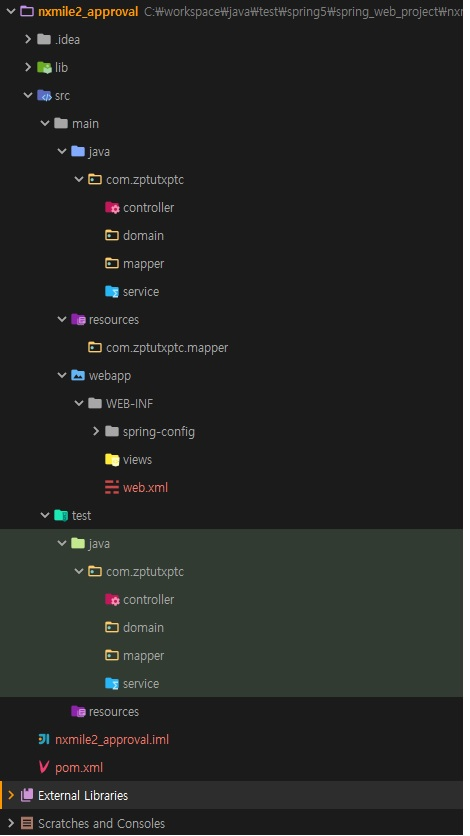
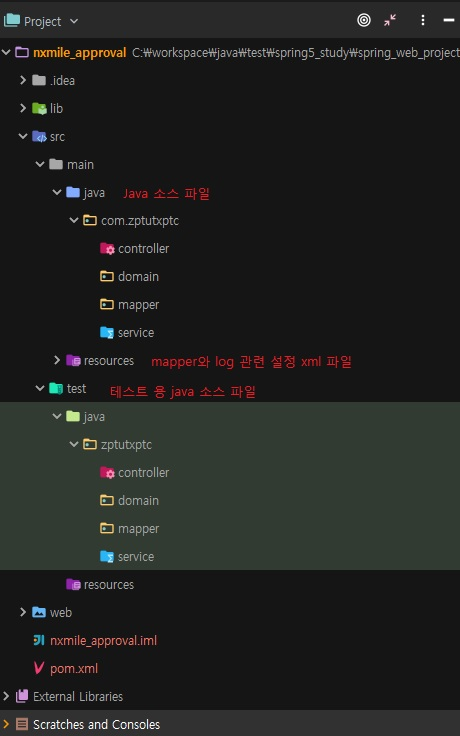
20181217_7

Changed region(s): [[0.0, 0.0, 1.0, 1.0]]

diff --git a/_posts/2018-12-16-[Spring]IntelliJ를 활용한 Spring MVC 프로젝트 시작하기.md b/_posts/2018-12-16-[Spring]IntelliJ를 활용한 Spring MVC 프로젝트 시작하기.md
@@ -45,19 +45,8 @@ _ _ _
 - src/main/java 밑에 필요한 패키지 들을 생성(controller, mapper, domain, service 등)
 - src/main/resource 밑에도 mapper 디렉토리를 생성(패키지 아님. 디렉토리의 경우 한개씩 순차적으로 생성해야함.(예)com->zptutxptc->mapper )
 - src/test 밑에도 src/main 과 동일한 패키지와 디렉토리를 생성해준다.
-- 디렉토리 간단 설명 : 
-	- src/main/java : java 소스 파일
-	- src/main/resource : mapper와 log 관련 설정 xml 파일
-	- src/main/webapp : web디렉토리. (처음에 만들면 src 밖에 web디렉토리가 생성되므로 디렉토리 변경 필요. 아래 4)설명 참고)
-		- WEB-INF : web information 디렉토리
-			- spring-config : spring 관련 설정 xml (applicationContext.xml, dispatcher-servlet.xml)
-		- views : jsp 파일
-		- resources : js, css등 정적 리소스
-	- src/test/java : 테스트 용 java 소스 파일
-	- src/test/resource : 테스트 용 resource파일
 
-
-
+**src 디렉토리 구조**
 ![다섯번째이미지](../images/intellij_spring_start_20181216_5.jpg)
 
 
@@ -73,6 +62,11 @@ _ _ _
 - web/WEB-INF/ 밑에 view라는 디렉토리를 신규 생성하고, index.jsp는 삭제
 - web 디렉토리를 src/main/ 밑으로 이동시키고 이름을 webapp으로 변경
 - File->Project Structure 클릭. Modules의 web을 선택하여 **Web Resource Directroy**애 WEF-INF 경로가 다르게 설정되어 있을 수 있으니 webapp의 위치에 알맞게 변경한다.(필수)
+
+**web 디렉토리 구조**
+![열번째이미지](../images/intellij_spring_start_20181216_10.jpg)
+
+**Web Resource Directory 경로 변경**
 ![여섯번째이미지](../images/intellij_spring_start_20181216_6.jpg)
 
 
